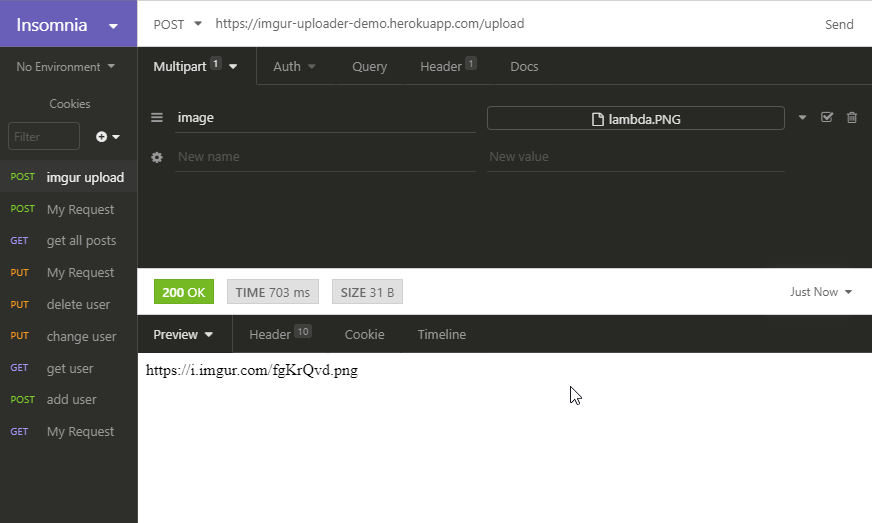
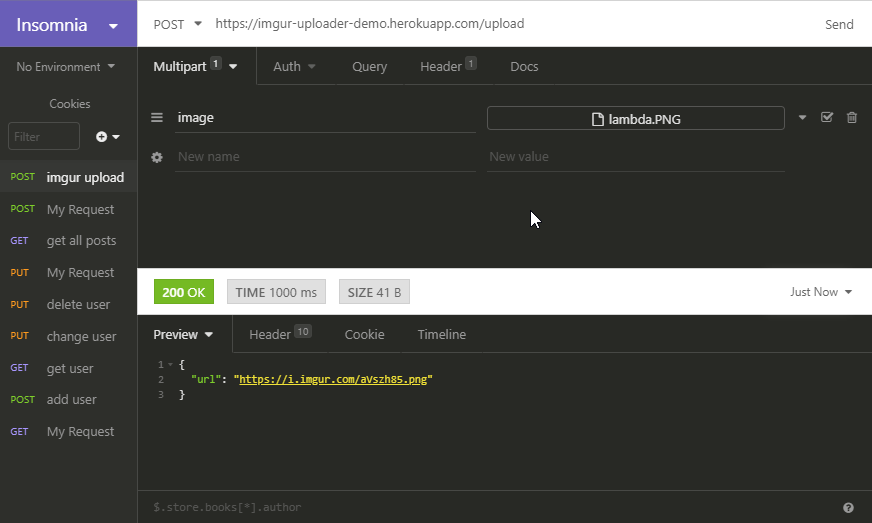
📄 README changes

Changed region(s): [[0.1548, 0.673, 1.0, 1.0], [0.3096, 0.5201, 0.4954, 0.5813], [0.5883, 0.3977, 0.6193, 0.4283]]

diff --git a/README.md b/README.md
@@ -99,7 +99,7 @@ select an image to ujpload
 
 ![5](images/5.png)
 
-send the request, the server will send back a json object containing a url. If you add `html=true` to the query you will get back an html image tag
+send the request, the server will send back a json object containing a url `{"url": "https://i.imgur.com/aVszh85.png"}`. If you add `html=true` to the query you will get back an html image tag
 
 ![6](images/6.png)
 ![7](images/7.png)
